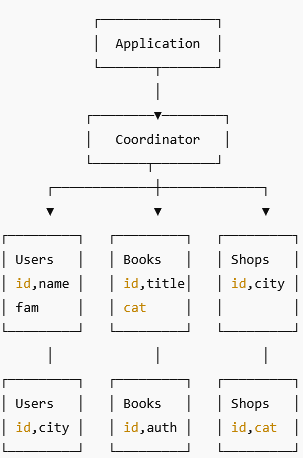
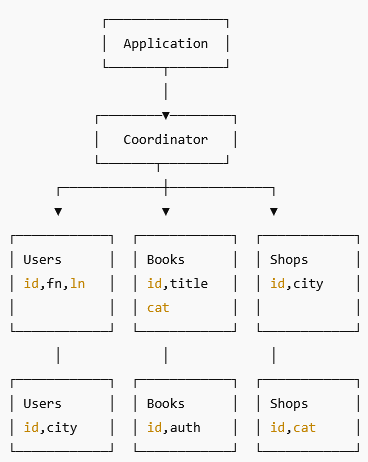
change readme.md

diff --git a/db-sharding/README.md b/db-sharding/README.md
@@ -34,7 +34,7 @@
 База данных состоит из трёх таблиц:
 
 **пользователи:**
-users(id, name, family, city)
+users(id, firstname, lastname, city)
 
 выбираем ключ распределения - например id.
 
@@ -89,7 +89,7 @@ shops(id, city, category)
 
 **Таблица пользователи:**
 
-Первый шард: id, name, family
+Первый шард: id, firstname, lastname
 
 Второй шард: id, city
 
@@ -124,3 +124,6 @@ shops(id, city, category)
 Выполните настройку выбранных методов шардинга из задания 2.
 
 *Пришлите конфиг Docker и SQL скрипт с командами для базы данных*.
+
+Шардирование выполнено на примере таблицы Users.
+
